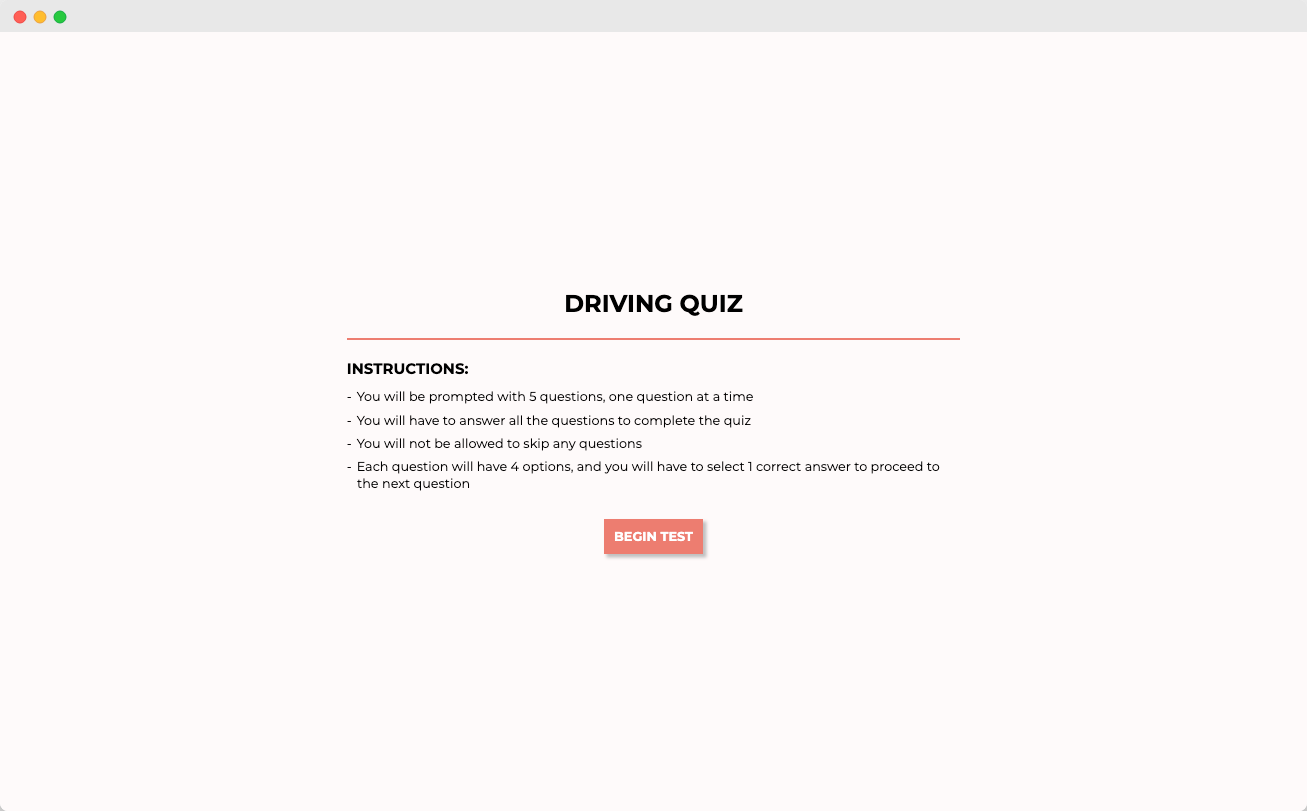
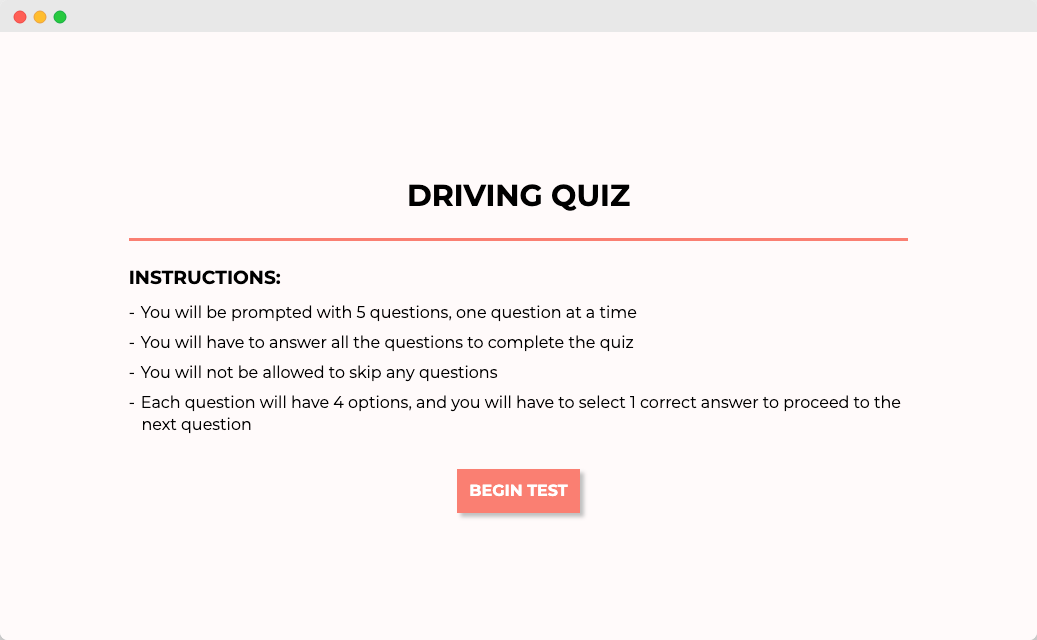
Changed the desktop mockup image and the languages used section

Changed region(s): [[0.1234, 0.2812, 0.864, 0.6875], [0.432, 0.7188, 0.5863, 0.8125], [0.0, 0.0, 0.0617, 0.0625]]

diff --git a/index.html b/index.html
@@ -55,7 +55,7 @@
             A driving test quiz app that helps the user improve his skills and knowledge before giving his first DMV Test for getting a Learner's Permit. It prompts the user with 5 question and keeps track of the question and score the user attains as they progress and shows the complete result at the end of the quiz.
           </p>
           <div class="project-screens">
-            <img src="img/project-1/comp 1.png" alt="Desktop Version screenshot of the quiz app" class="screenshot">
+            <img src="img/project-1/comp 1.png" alt="Desktop mockup of the quiz app" class="comp-mockup">
           </div>
           <div class="project-links">
             <button class="app-buttons">Demo</button>
@@ -63,27 +63,15 @@
           </div>
           <div class="lang-framework-used">
             <h4 class="languages">Languages</h4>
-            <div class="lang-used">
-              <div class="">
-                <img src="img/tech-imgs/html5.png" alt="HTML5">
-                <span class="lang-title">HTML5</span>
-              </div>
-              <div class="">
-                <img src="img/tech-imgs/css3.png" alt="CSS3">
-                <span class="lang-title">CSS3</span>
-              </div>
-              <div class="">
-                <img src="img/tech-imgs/javascript.png" alt="Javascript">
-                <span class="lang-title">Javascript</span>
-              </div>
-            </div>
+            <ul class="languages-list">
+              <li class="languages-list-item">HTML5</li>
+              <li class="languages-list-item">CSS3</li>
+              <li class="languages-list-item">Javascript</li>
+            </ul>
             <h4 class="framework">Framework</h4>
-            <div class="framework-used">
-              <div class="">
-                <img src="img/tech-imgs/jquery.png" alt="jQuery">
-                <span class="framework-title">jQuery</span>
-              </div>
-            </div>
+            <ul class="framework-list">
+              <li class="framework-list-item">jQuery</li>
+            </ul>
           </div>
         </div>
       </div>

diff --git a/css/style.css b/css/style.css
@@ -156,15 +156,13 @@ a{
   display: inline;
   border: 5px solid #ffffff;
   border-radius: 35px;
-  background: crimson;
-  color: #e1e0e0;
+  color: #0B245B;
   padding: 5px 25px;
   font-size: .7em;
   font-weight: 800;
   text-transform: uppercase;
   text-decoration: underline;
   cursor: pointer;
-  box-shadow: 0 0 2px 2px silver;
 }
 .app-buttons:hover{
   background: #0B245B;
@@ -184,14 +182,32 @@ a{
 .projects-section > div, .projects-section > h2{
   margin: 0px 10px;
 }
-
-.project-screens img{
+.project-title{
+  text-align: center;
+  padding: 10px;
+  text-transform: uppercase;
+  font-size: .9em;
+  background: #e1e0e0;
+  color: #0B245B
+}
+.project-info{
+  padding: 20px 10px 10px 10px;
+  font-size: .7em;
+  line-height: 1.4em;
+}
+.project-screens{
+  padding: 10px;
+}
+.comp-mockup{
   width: 100%;
 }
 .first-project{
   color: white;
+  border: 2px solid #e1e0e0;
 }
-.project-title{
+.project-links{
+  display: flex;
+  justify-content: space-evenly;
   padding: 10px;
 }
 
